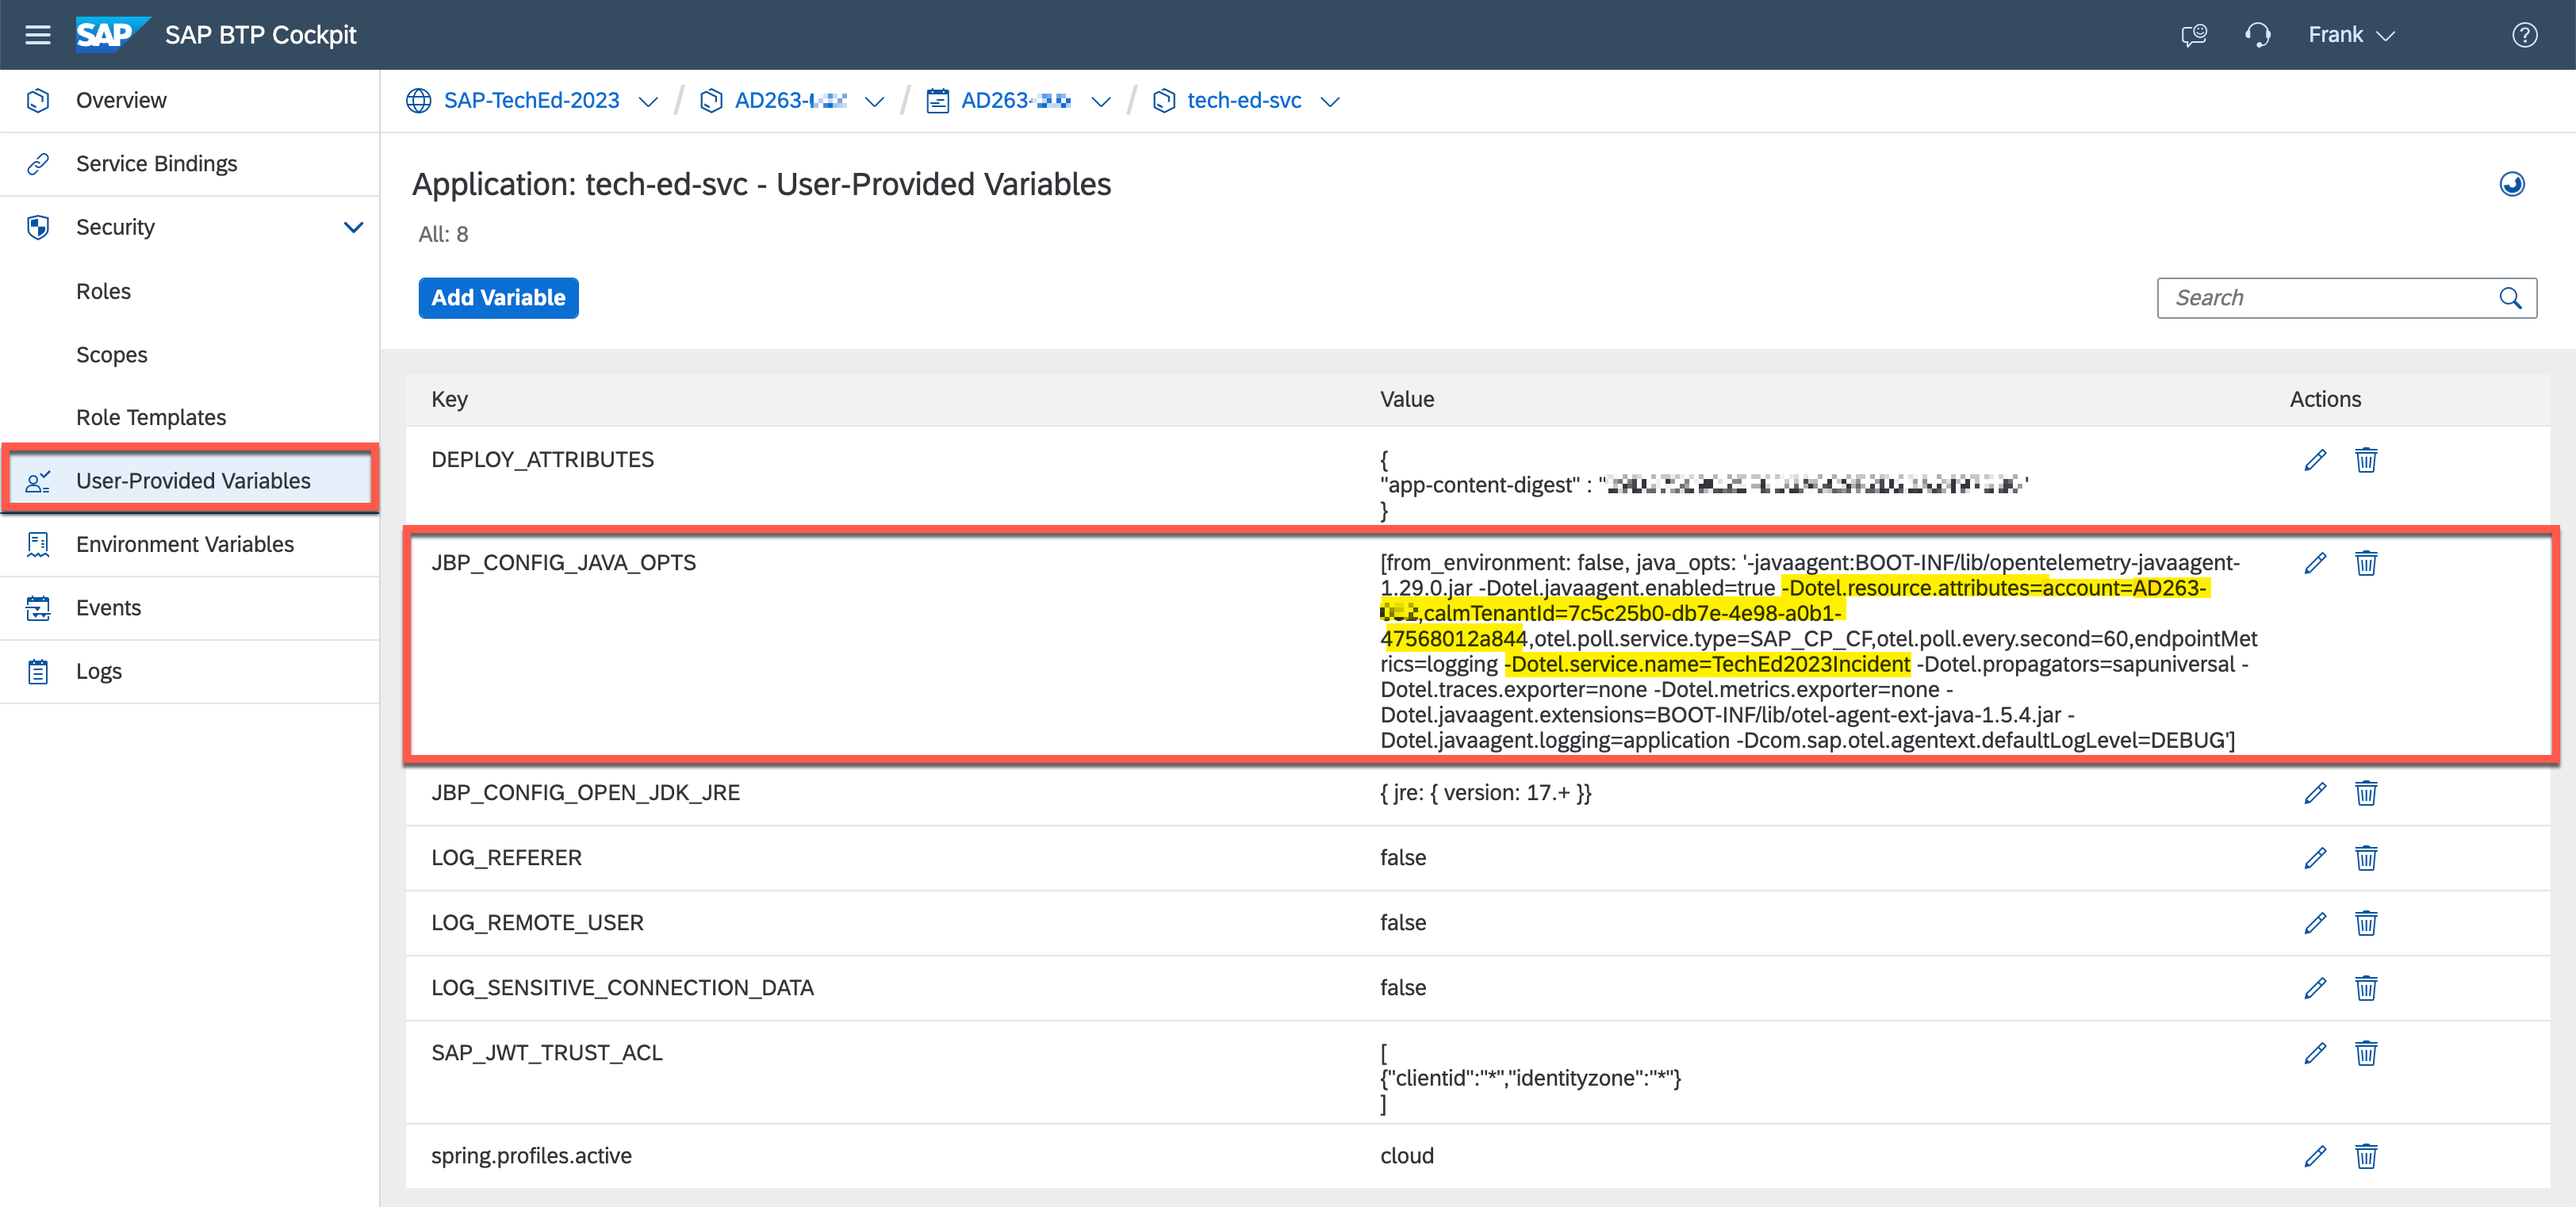
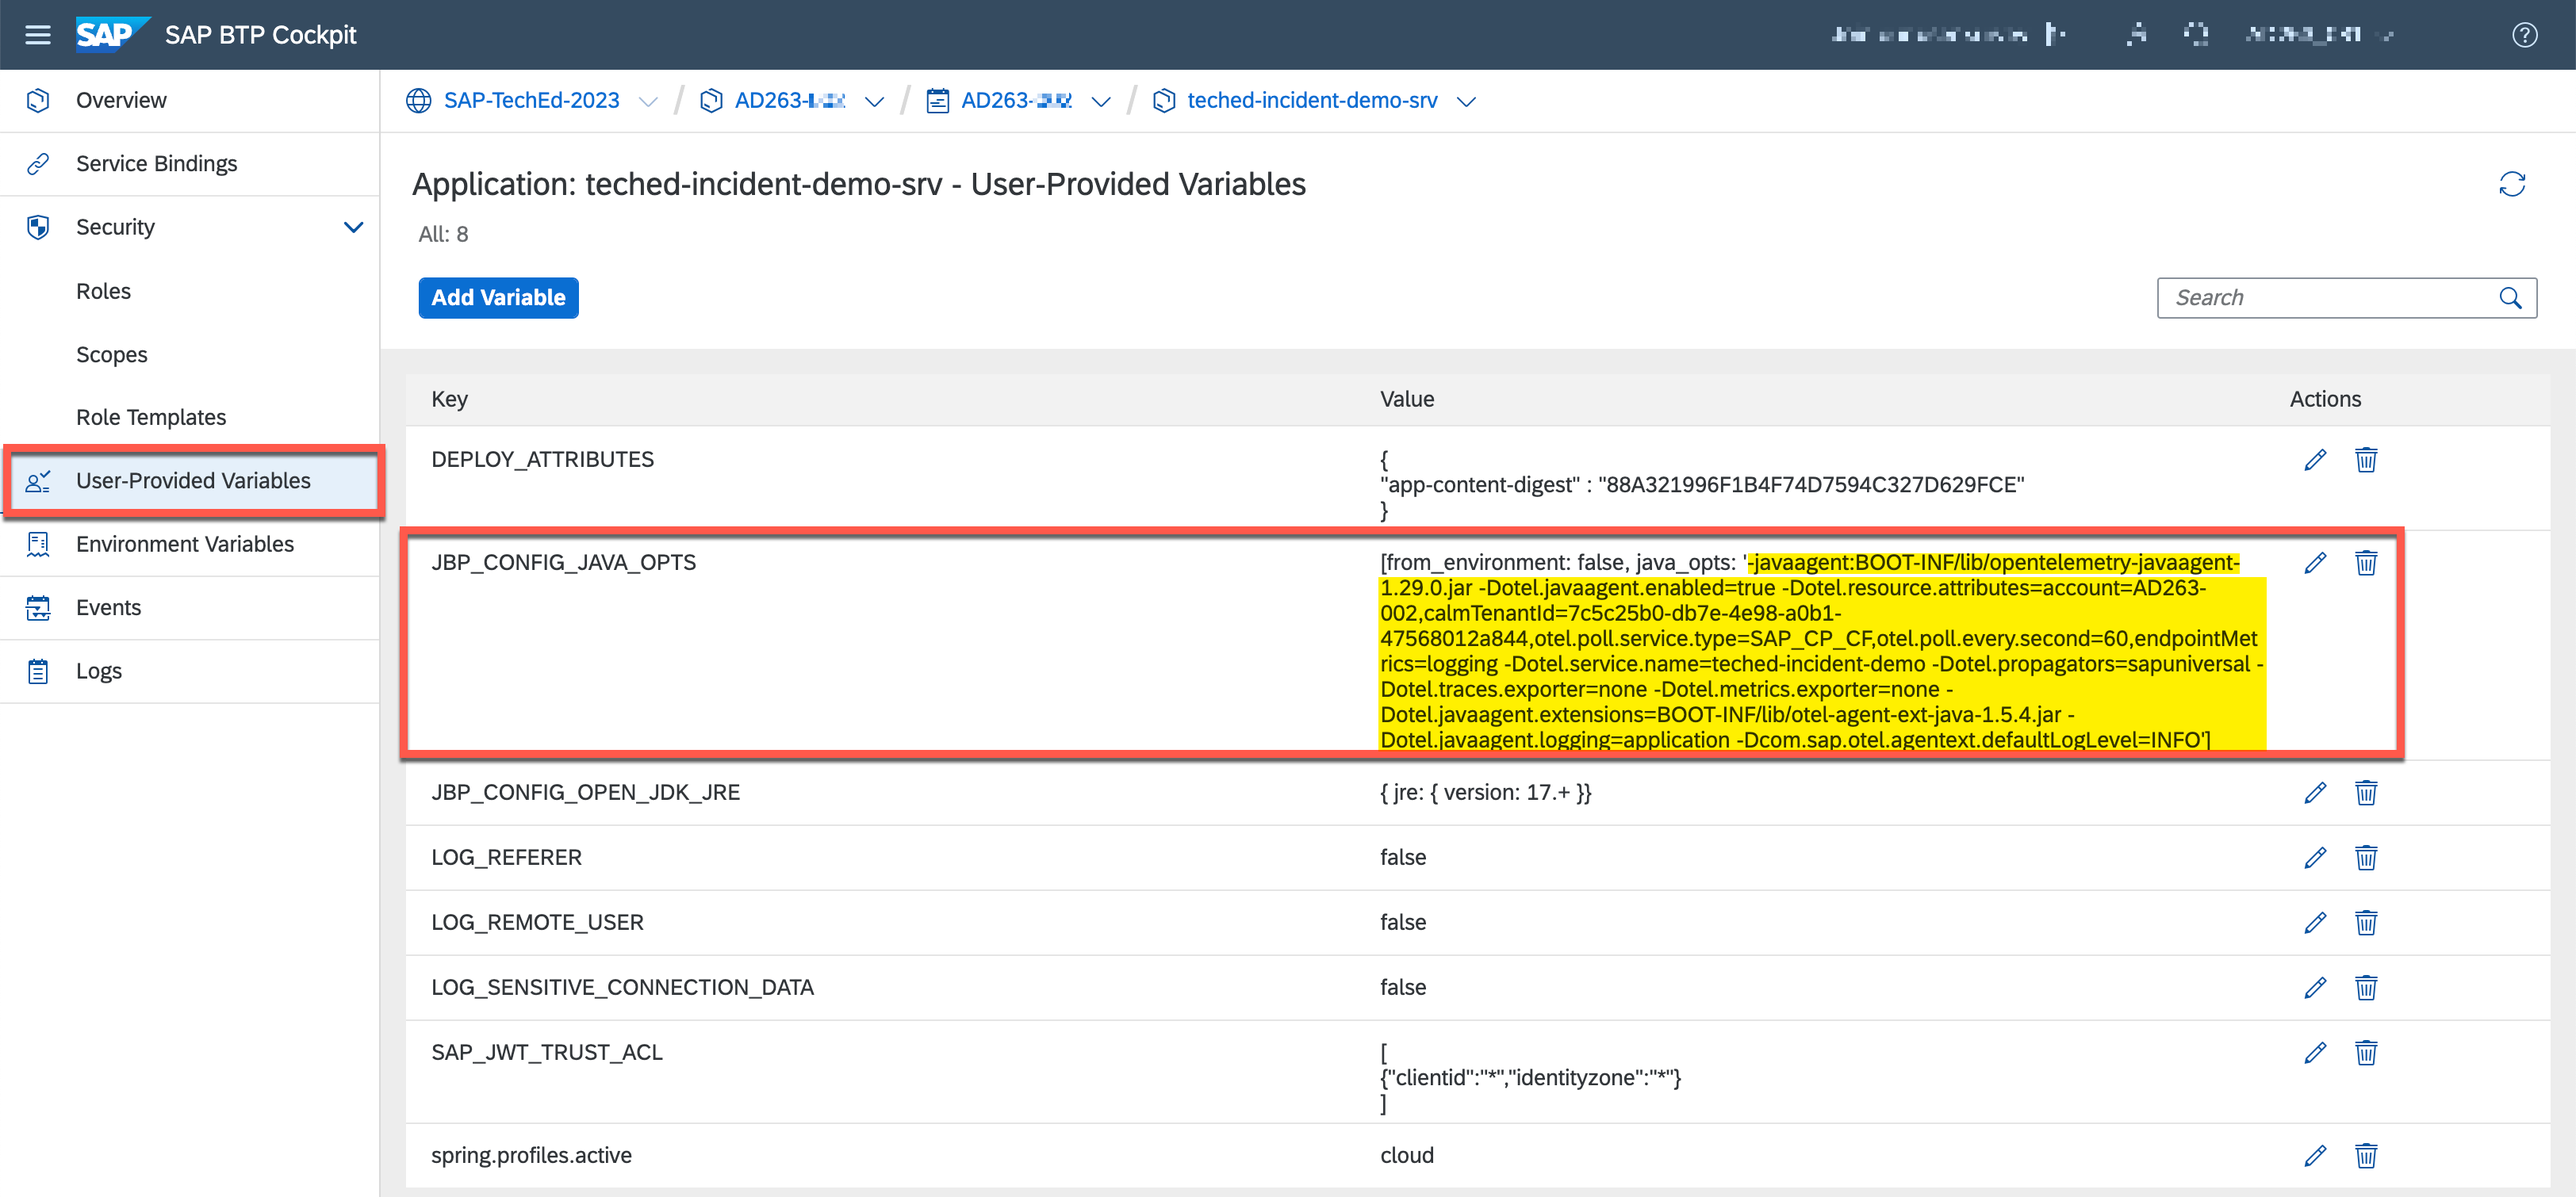
update for new app

diff --git a/exercises/ex0/README.md b/exercises/ex0/README.md
@@ -1,5 +1,24 @@
 # Exercise 0 – Getting Started
 
+## Find your group Number
+
+During this Teched exercise, you will use a Java application deploy it into an SAP BTP subaccount. You will then configure the Integration and Exception Monitoring this Java application in a shared SAP Cloud ALM. To avoid that it comes to conflicts between two applications, it is very important that you know your place number and execute the exercise using this place number. Please check the sign on your table. The number on this sign is your place number.
+
+![](./images/overview.png)
+
+**Please replace the XXX in the excercises always with your place number!**
+
+### Login Information
+
+Please replace the _**XXX**_ in the user name with your place number (e.g. AD263_001@education.cloud.sap).
+
+In the SAP BTP Cockpit, you will only see the subaccount that is relevant for you, based on your place number.
+
+| Application | User ID | Password | URL |
+|---|---|---|---|
+| SAP Cloud ALM URL | AD263_**XXX**@education.cloud.sap | coming soon | [SAP Cloud ALM](https://ad263-ptnlz9xc.eu10.alm.cloud.sap/launchpad) |
+| SAP BTP Cockpit | AD263_**XXX**@education.cloud.sap | coming soon | [BTP Global Account](https://emea.cockpit.btp.cloud.sap/cockpit/?idp=tdct3ched1.accounts.ondemand.com#/globalaccount/e2a835b0-3011-4c79-818a-d7767c4627cd) |
+
 ## Connect to SAP BTP CF Subaccount
 
 To access all BTP accounts please logon with the credentials to the BTP Global Account for TechEd 2023 Hands-On Sessions:
@@ -10,7 +29,6 @@ Your trainer will provide:
 
 ```
 Username: <AD263-XXX@education.cloud.sap>
-Password: <the password is handed out during the session by your trainer)
 ```
 
 > [!IMPORTANT]
@@ -28,12 +46,38 @@ After successful logon you see SAP BTP Cockpit global account overview two diffe
 
 Select Subaccount: AD263-XXX ***(replace XXX with your group number)***
 
-## Check Demo Application (Optional)
+## Demo Application for this excercise
+
+To demonstrate the different functionality a demo application was deployed to your group subaccount AD263-XXX ***(replace XXX with your group number)***. This demo application will service two different purposed:
+
+1. Incident Management
+	- Display incidents and incident details
+	- provide API to create incidents remotely (e.g. from Cloud ALM or from Alert Notification Service)
+	- **Note:** In customer environments incident management can be handled by a broad variety of Incident Management Tools provided by different vendors. In this hands-on session we will use this mock application to simulate an Incident Management tool with limited functionality. Please note that SAP does not offer or recommend any specific solution.
+2. Demonstrate instrumentation of customer applications for SAP Cloud ALM and be able to raise exceptions on demand for demo purposes
+
+To access the demo application please open the space AD263-XXX ***(replace XXX with your group number)***.
+![](./images/open_space.png)
+
+Select the frontend for application teched-incident-demo
+![](./images/open_app_frontend.png)
+
+By clicking on the application route the demo application in your space will open. You will also need this URL for further purposes. So please copy the URL into a notepad of your laptop.
+![](./images/open_app_url.png)
+
+The demo app will open
+![](./images/demo_app_overview.png)
+1. In this area incidents are displayed and navigation to incident details is possible
+2. With the button Create Exception you can manually trigger exception generation from this application
+
+Keep the demo app open in a separate tab of your browser. During this excercise we will come back here multiple times.
+
+## Check Cloud ALM instrumentation of the Demo Application (Optional)
 
 The complete procedure how to instrument customer developed applications is described in the SAP Cloud ALM Expert Portal
 <https://support.sap.com/en/alm/sap-cloud-alm/operations/expert-portal/data-collection-infrastructure.html>
 
-See also the Hands-On XP261 Observability for Your SAP BTP Applications with SAP Cloud ALM for a step-by-step explanation.
+See also the Hands-On XP261 Observability for Your SAP BTP Applications with SAP Cloud ALM for a step-by-step explanation. In our example we will use the instrumentation for java backend service.
 
 ### Check Connectivity from SAP BTP CF to SAP Cloud ALM (optional)
 
@@ -59,23 +103,24 @@ To enable data collection in a custom application the Open Telemetry Java Agent 
 ![](./images/open_space.png)
 
 Navigate to the the Java Backend Service of your demo application
-![](./images/open_app.png)
+![](./images/open_app_backend.png)
 
 The instrumentation is done via user provided variable JB\P_CONFIG\_JAVA\_OPTS
 ![](./images/open_app_instrumentation.png)
 
-With the given parameters the instrumentation of the application is done. With the enablement of the SAP Otel Extensions important technical KPIs are automatically collected and transfered to SAP Cloud ALM
+With the given parameters the instrumentation of the application is done. With the enablement of the SAP Otel Extensions important technical KPIs are automatically collected and transfered to SAP Cloud ALM.
 
 ```
-javaagent:BOOT-INF/lib/opentelemetry-javaagent-1.29.0.jar -Dotel.javaagent.enabled=true: enables the Open Telemetry Agent
+javaagent:BOOT-INF/lib/opentelemetry-javaagent-1.29.0.jar 
+-Dotel.javaagent.enabled=true: enables the Open Telemetry Agent
 -Dotel.javaagent.extensions=BOOT-INF/lib/otel-agent-ext-java-1.5.4.jar: includes the SAP Otel Extension library
 -Dotel.resource.attributes=account=AD263-XXX,calmTenantId=<guid>: describes space name and space id of your BTP CF account
--Dotel.service.name=TechEd2023Incident: describes the name of the application to be shown in Cloud ALM
+-Dotel.service.name=teched-incident-demo: describes the name of the application to be shown in Cloud ALM
 
 ```
 
 ## Trigger Exception from Demo Application
-Navigate to your BTP subaccount AD263-XXX
+Navigate to your BTP subaccount AD263-XXX ***(replace XXX with your group number)***
 
 ![ref1]
 
@@ -87,27 +132,17 @@ Open Space AD263-XXX
 
 ![](./images/007.png)
 
-Here you see 3 deployed applications
+Select the frontend for application teched-incident-demo
+![](./images/open_app_frontend.png)
 
-![](./images/008.png)
+By clicking on the application route the demo application in your space will open.
+![](./images/open_app_url.png)
 
-- tech-ed-svc: java backing service
-- wa-approuter: managed approuter
-- waapp: UI5 frontend
+Please click the button `Create Exception` to raise some example exceptions from this Application.
+![](./images/demo_app_trigger_exception.png)
 
-Navigate to the UI5 frontend application
-
-![](./images/009.png)
-
-Klick on the link to open the Incident Mock Demo application
-
-![](./images/010.png)
-
-In your BTP space a sample java application has been deployed, which can create exceptions on user requests. This is a mock application to simulate exception creations from customer developed PaaS applications.
-
-- Please click the button `Create Exception` to raise some example exceptions from this Application
-
-The very same application is also used as mock ticketing system, which means tickets can be created in the application by a remote call and the ticket can be shown here. Please keep the application window open for the remainder of this hands-on session.
+After triggering the exception a toast confirming the result is shown.
+![](./images/demo_app_success_exception.png)
 
 > [!NOTE]
 > How exceptions are raised in the customer applications: 
@@ -121,10 +156,6 @@ import org.slf4j.LoggerFactory;
 Logger logger = LoggerFactory.getLogger(loggerName);
 logger.error(message)
 ```
-
-Note: Furthermore, this application can display incidents created by other tools. In customer environments incident management can be handled by a broad variety of Incident Management Tools provided by different vendors. In this hands-on session we will use this mock application to simulate an Incident Management tool with limited functionality. Please note that SAP does not offer or recommend any specific solution.
-
-To learn more about how to develop and instrument your customer applications please see session “XP261 – Observability for Your SAP BTP Applications with SAP Cloud ALM”
 
 ## Review Exception from Demo Application in Cloud Logging Service
 
@@ -157,3 +188,5 @@ Navigate to your subaccount AD263-XXX ***(replace XXX with your group number)***
 - You have now access to the Demo Application for this Hands-on session.
 - You are able to trigger exceptions on demand to simulate erroneous behavior of a customer developed BTP CF Java application
 - You are able to view incidents created by SAP Cloud ALM or SAP BTP Alert Notification Service
+
+Continue to - [Exercise 1](../ex1/README.md)

diff --git a/exercises/ex4/README.md b/exercises/ex4/README.md
@@ -20,12 +20,40 @@ Activate the Create Ticket Event Action and Assign your Subscription AD263-XXX\_
 ![](./images/004.png)
 
 Save the changes and close
-## Trigger Exception
-![](./images/005.png)
 
-In your BTP space a sample java application has been deployed, which can create exceptions on user requests. This is a mock application to simulate exception creations from customer developed PaaS applications.
+## Trigger Exception from Demo Application
 
-- Please click the button Create Exception to raise some example exceptions from this Application
+Navigate to your BTP subaccount AD263-XXX ***(replace XXX with your group number)*** and navigate to Cloud Foundry -> Spaces
+![](./images/open_subaccount.png)
+
+Open Space AD263-XXX
+![](./images/open_space.png)
+
+Select the frontend for application teched-incident-demo
+![](./images/open_app_frontend.png)
+
+By clicking on the application route the demo application in your space will open.
+![](./images/open_app_url.png)
+
+Please click the button `Create Exception` to raise some example exceptions from this Application.
+![](./images/demo_app_trigger_exception.png)
+
+## Review Exception in Cloud ALM
+
+Navigate to the Home of Integration & Exception Monitoring
+
+![](./images/026.png)
+
+1. Click on the Refresh Indicator
+1. Click Refresh to manually refresh the current page (by default the current view is refreshed every 5 minutes automatically). The data transfer from your application to Cloud ALM can take up to two minutes
+1. Click on the Exceptions to show the exception details<br>
+![](./images/027.png)
+1. Click on one line to review details of a single exception<br>
+![](./images/028.png)
+1. Review the Collection Context
+1. Review the Correlation Context
+1. Review the Process Arguments
+1. Navigate to Cloud Logging Service to see the details in local dashboard
 ## Review Exception in Cloud ALM
 Navigate to the Home of Integration & Exception Monitoring
 
@@ -36,11 +64,25 @@ Navigate to the Home of Integration & Exception Monitoring
 1. Click on the Exceptions to show the exception details
 
 ![](./images/007.png)
-## Review Ticket in Ticket Demo Application 
-Your newly created ticket shall appear in the list of tickets in the TechEd2023Incident App in your BTP CF Space AD263-XXX ***(replace XXX with your group number)***. It could take up to 5 minutes until the ticket is created.
+## Review Ticket in Ticket Demo Application
+Navigate to your BTP subaccount AD263-XXX ***(replace XXX with your group number)*** and navigate to Cloud Foundry -> Spaces
+![](./images/open_subaccount.png)
 
-![](./images/008.png)
+Open Space AD263-XXX
+![](./images/open_space.png)
+
+Select the frontend for application teched-incident-demo
+![](./images/open_app_frontend.png)
+
+By clicking on the application route the demo application in your space will open.
+![](./images/open_app_url.png)
+
+Your newly created ticket shall appear in the list of tickets in the teched-incident-demo App in your BTP CF Space AD263-XXX ***(replace XXX with your group number)***. It could take up to 5 minutes until the ticket is created.
+![](./images/demo_app_tickets.png)
 
 ## Summary
+
+- You have configured the automatic ticket creation for new exceptions via Cloud ALM
 - In case of new exceptions created by the customer application automatically new incident tickets are created in the ticket system
 
+**Congratulations: you have finished the excercise!**

diff --git a/exercises/ex2/README.md b/exercises/ex2/README.md
@@ -1,4 +1,4 @@
-# Exercise 2 - Prepare SAP Cloud ALM
+# Exercise 2 - Prepare and Configure SAP Cloud ALM
 
 Logon to the AD263 Cloud ALM Tenant:
 
@@ -134,13 +134,22 @@ Activate `Create Alert` as Event Action and Save
 
 With this setting each time new exceptions are detected in your custom application a new alert is created in the alert inbox for Cloud ALM.
 
-## Trigger Exception
+## Trigger Exception from Demo Application
 
-![](./images/025.png)
+Navigate to your BTP subaccount AD263-XXX ***(replace XXX with your group number)*** and navigate to Cloud Foundry -> Spaces
+![](./images/open_subaccount.png)
 
-In your BTP space a sample java application has been deployed, which can create exceptions on user requests. This is a mock application to simulate exception creations from customer developed PaaS applications.
+Open Space AD263-XXX
+![](./images/open_space.png)
 
-- Please click the button Create Exception to raise some example exceptions from this Application
+Select the frontend for application teched-incident-demo
+![](./images/open_app_frontend.png)
+
+By clicking on the application route the demo application in your space will open.
+![](./images/open_app_url.png)
+
+Please click the button `Create Exception` to raise some example exceptions from this Application.
+![](./images/demo_app_trigger_exception.png)
 
 ## Review Exception in Cloud ALM
 
@@ -173,3 +182,4 @@ Navigate to the Home of Integration & Exception Monitoring
 - Your managed customer created Java application deployed in BTP CF is available and configured for monitoring in Heralth Monitoring ansd Integration & Exception Monitoring in SAP Cloud ALM
 - Exceptions from the Demo Application are creating events and alerts in SAP Cloud ALM
 
+ontinue to - [Exercise 3](../ex3/README.md)

diff --git a/README.md b/README.md
@@ -24,7 +24,7 @@ The requirements to follow the exercises in this repository
 
 Provide the exercise content here directly in README.md using [markdown](https://guides.github.com/features/mastering-markdown/) and linking to the specific exercise pages, below is an example.
 
-- [Getting Started](exercises/ex0/)
+- [Exercise 0 - Getting Started](exercises/ex0/)
 - [Exercise 1 - Configure Alert Notification Service](exercises/ex1/)
 - [Exercise 2 - Prepare SAP Cloud ALM](exercises/ex2/)
 - [Exercise 3 - Configure Integration with External Ticket Management System from Cloud ALM](exercises/ex3/)

diff --git a/exercises/ex3/README.md b/exercises/ex3/README.md
@@ -113,3 +113,4 @@ Your newly created ticket shall appear in the list of tickets in the TechEd2023I
 - The connectivity between Cloud ALM the your customer ticket system (the Demo Application for this Hands-on Session will act as mock application for this purpose) has been established
 - Tickets can be manually created from Cloud ALM in the Ticket system
 
+Continue to - [Exercise 4](../ex4/README.md)
